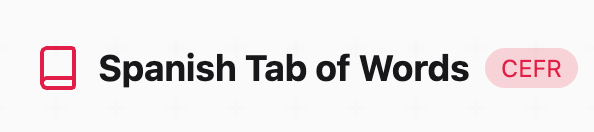
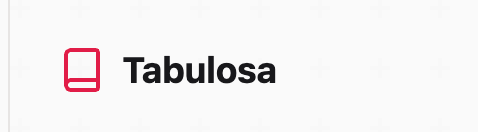
feat: display current language name in header

Changed region(s): [[0.0586, 0.3333, 0.9958, 0.697]]

diff --git a/entrypoints/newtab/App.tsx b/entrypoints/newtab/App.tsx
@@ -8,6 +8,7 @@ import { useTheme } from './hooks/use-theme';
 import { useLoadWords, preloadVoices } from './hooks/use-vocab';
 import { useRandomWord, useData, savedAtom, languageAtom } from './hooks/use-data';
 import { useSettings, pronunciationAtom } from './hooks/use-settings';
+import { LANGUAGES } from './types';
 
 export default function App() {
   const [showSettings, setShowSettings] = useState(false);
@@ -68,6 +69,9 @@ export default function App() {
           <Book className="w-6 h-6 text-primary" />
           <span className="text-lg font-bold text-foreground">
             Tabulosa
+          </span>
+          <span className="text-sm text-muted-foreground">
+            · {LANGUAGES[language]?.name}
           </span>
         </div>
         
